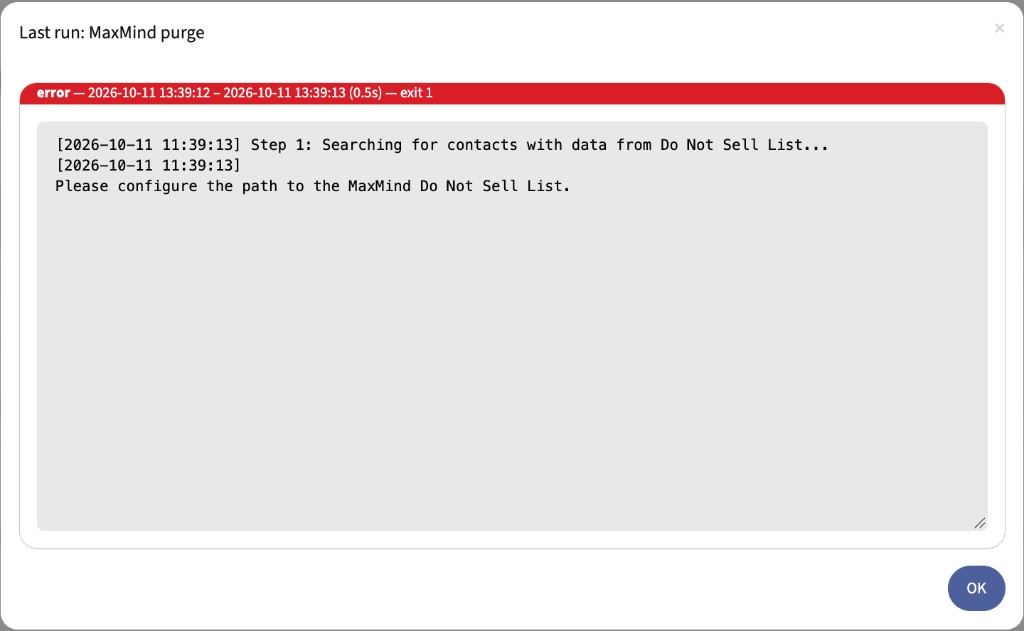
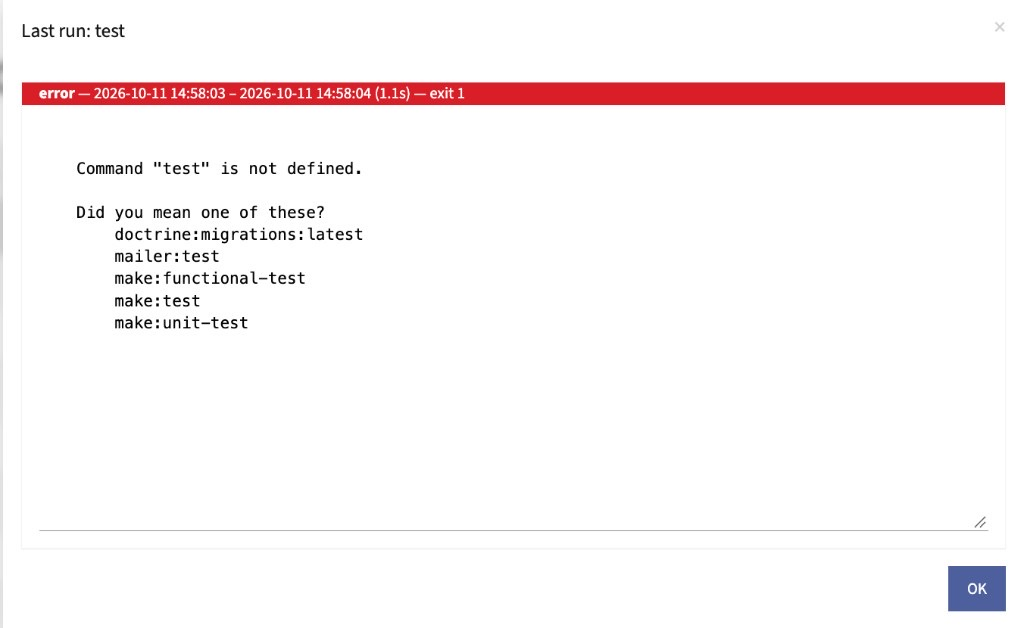
Document Mautic 7 support and refresh README screenshots.

diff --git a/README.md b/README.md
@@ -22,6 +22,7 @@ A plugin for Mautic that replaces dozens of system cron entries with a **single*
 |--------|-----|---------|
 | Mautic 5 | PHP 8.0+ | `mauticinsights/mautic-cron-orchestrator:^5` |
 | Mautic 6 | PHP 8.1+ | `mauticinsights/mautic-cron-orchestrator:^6` |
+| Mautic 7 | PHP 8.2+ | `mauticinsights/mautic-cron-orchestrator:^7` |
 
 - Composer 2.x
 
@@ -30,6 +31,12 @@ A plugin for Mautic that replaces dozens of system cron entries with a **single*
 ### Recommended (Packagist)
 
 From the root of your Mautic project. Use a constraint that matches your Mautic major version.
+
+#### Mautic 7
+
+```bash
+composer require mauticinsights/mautic-cron-orchestrator:^7
+```
 
 #### Mautic 6
 
@@ -47,7 +54,7 @@ Package: [packagist.org/packages/mauticinsights/mautic-cron-orchestrator](https:
 
 ### Alternative: install from ZIP (no Composer)
 
-1. Download **Source code (zip)** for the release that matches your Mautic major version (plugin `5.x` → Mautic 5.x, plugin `6.x` → Mautic 6.x, …): [github.com/mauticinsights/mautic-cron-orchestrator/releases](https://github.com/mauticinsights/mautic-cron-orchestrator/releases).
+1. Download **Source code (zip)** for the release that matches your Mautic major version (plugin `5.x` → Mautic 5.x, `6.x` → Mautic 6.x, `7.x` → Mautic 7.x, …): [github.com/mauticinsights/mautic-cron-orchestrator/releases](https://github.com/mauticinsights/mautic-cron-orchestrator/releases).
 2. Extract the ZIP into your Mautic plugins directory as **`plugins/MauticCronOrchestratorBundle`** (on Composer-based installs often `docroot/plugins/MauticCronOrchestratorBundle`).
 
    The plugin root must contain `composer.json` at:
@@ -71,6 +78,9 @@ Only needed if you want a branch / unreleased commit. Add to the `repositories` 
 Then:
 
 ```bash
+# Mautic 7
+composer require mauticinsights/mautic-cron-orchestrator:dev-7.x -W
+
 # Mautic 6
 composer require mauticinsights/mautic-cron-orchestrator:dev-6.x -W
 
